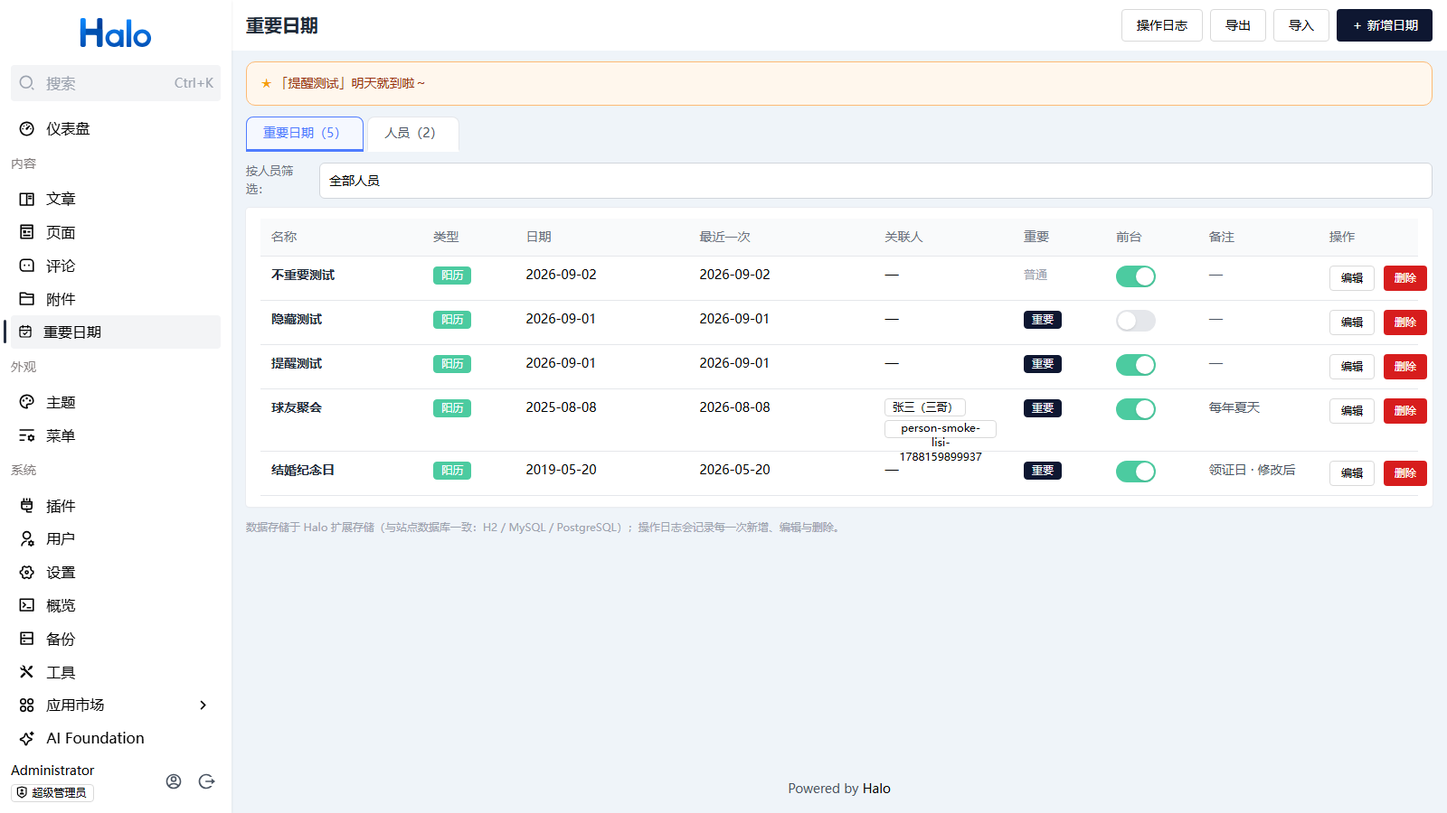
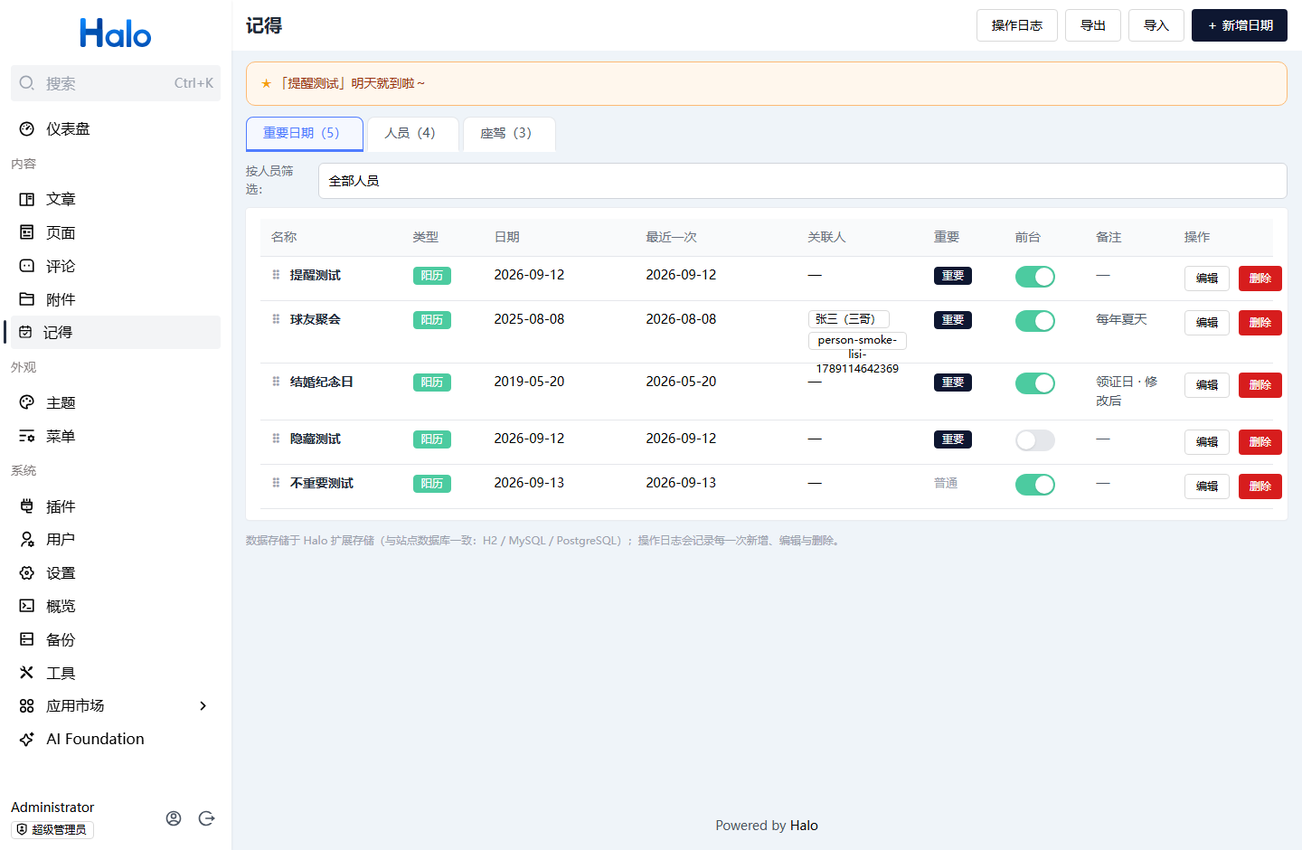
feat(car): 1.2.0-SNAPSHOT 阶段4——应用更名「记得」(菜单/页面/仪表盘小组件/插件描述)、设置文案通用化(照片设置)、附件库浮层改用 Teleport(修复 VModal 插槽 DOM 冲突)、README 与商店物料更新(座驾模块/新截图/主题变量)、上架材料版本 1.2.0

diff --git a/console/src/components/ReminderWidget.vue b/console/src/components/ReminderWidget.vue
@@ -2,7 +2,7 @@
   <WidgetCard :body-class="['!p-0']">
     <template #title>
       <div class="inline-flex items-center gap-2">
-        <div class="text-base font-medium flex-1">📅 重要日期提醒</div>
+        <div class="text-base font-medium flex-1">📅 记得 · 到期提醒</div>
       </div>
     </template>
     <div class="p-4">
@@ -23,12 +23,12 @@
           <span class="whitespace-nowrap text-sm font-bold text-red-600">{{ daysLabel(r.daysUntil) }}</span>
         </div>
         <div class="text-xs text-gray-500">
-          来自「重要日期」插件；提前天数与开关可在 插件 → 重要日期 → 设置 中调整
+          来自「记得」插件；提前天数与开关可在 插件 → 记得 → 设置 中调整
         </div>
       </div>
       <div v-else>
         <div class="text-gray-500">最近没有重要日期提醒</div>
-        <a class="text-sm text-blue-600 hover:text-blue-700" href="/console/important-dates">去管理重要日期 →</a>
+        <a class="text-sm text-blue-600 hover:text-blue-700" href="/console/important-dates">去管理记得 →</a>
       </div>
     </div>
   </WidgetCard>
@@ -83,3 +83,4 @@ onUnmounted(() => {
   if (timer) clearInterval(timer);
 });
 </script>
+

diff --git a/console/src/index.ts b/console/src/index.ts
@@ -13,11 +13,11 @@ export default definePlugin({
         name: "ImportantDates",
         component: ImportantDatesView,
         meta: {
-          title: "重要日期",
+          title: "记得",
           searchable: true,
           permissions: ["plugin:important-dates:view"],
           menu: {
-            name: "重要日期",
+            name: "记得",
             group: "content",
             icon: markRaw(CalendarIcon),
             priority: 0,
@@ -33,9 +33,10 @@ export default definePlugin({
       {
         id: "important-dates-reminder",
         component: markRaw(ReminderWidget),
-        group: "重要日期",
+        group: "记得",
         defaultSize: { w: 6, h: 5, minW: 3, minH: 3, maxW: 12, maxH: 8 },
       },
     ],
   },
 });
+

diff --git a/console/src/components/CarFormModal.vue b/console/src/components/CarFormModal.vue
@@ -1,4 +1,4 @@
-<template>
+<template>
   <VModal
     :visible="visible"
     :title="car ? '编辑座驾' : '新增座驾'"
@@ -244,7 +244,8 @@
       </div>
     </div>
 
-    <!-- 附件库多选浮层 -->
+    <!-- 附件库多选浮层（Teleport 到 body：避免 VModal 插槽内的 DOM 插入冲突） -->
+    <Teleport to="body">
     <div v-if="libVisible" class="lib-overlay" @click.self="closeLib">
       <div class="lib-panel">
         <div class="lib-header">
@@ -284,6 +285,7 @@
         </div>
       </div>
     </div>
+    </Teleport>
 
     <template #footer>
       <VSpace>
@@ -979,3 +981,4 @@ watch(
   border-top: 1px solid #e5e7eb;
 }
 </style>
+

diff --git a/console/src/views/ImportantDatesView.vue b/console/src/views/ImportantDatesView.vue
@@ -1,5 +1,5 @@
 <template>
-  <VPageHeader title="重要日期">
+  <VPageHeader title="记得">
     <template #actions>
       <VButton :loading="logLoading" @click="openLogs">操作日志</VButton>
       <VButton @click="exportData">导出</VButton>
@@ -2111,4 +2111,5 @@ function formatTime(iso?: string): string {
 .car-actions {
   margin-top: 4px;
 }
+
 

diff --git a/src/main/java/com/yyliucha/importantdates/ImportantDateRouter.java b/src/main/java/com/yyliucha/importantdates/ImportantDateRouter.java
@@ -84,7 +84,7 @@ public class ImportantDateRouter {
                                 List<ImportantDateVo> reminders = tuple.getT1();
                                 List<CarVo.CarEventVo> events = tuple.getT2();
                                 Map<String, Object> model = new LinkedHashMap<>();
-                                model.put("title", cfg.carFrontendSection() ? "记得" : "重要日期");
+                                model.put("title", "记得");
                                 model.put("dates", dates);
                                 model.put("people", people);
                                 model.put("reminders", reminders);
@@ -291,4 +291,5 @@ public class ImportantDateRouter {
         int toastMaxPerType) {
     }
 }
+
 

diff --git a/README.store.md b/README.store.md
@@ -1,9 +1,9 @@
-# 重要日期（plugin-important-dates）
+# 记得 · 重要日期与爱车（plugin-important-dates）
 
 [![build](https://github.com/yyliucha/plugin-important-dates/actions/workflows/build.yaml/badge.svg)](https://github.com/yyliucha/plugin-important-dates/actions/workflows/build.yaml)
 [![plugin](https://img.shields.io/badge/Halo-2.x-1f6feb?logo=halo&color=1f6feb)](https://github.com/halo-dev/halo)
 
-一个 Halo 2.x 插件：在**后台**记录并管理自己的重要日期与家人朋友（结婚纪念日、孩子出生日期等），支持阳历/农历（含闰月）、每年自动循环、**拖拽排序**、人员档案与**大头贴**、到期提醒（仪表盘常驻 + 前台页面 + 全站悬浮弹窗）、隐私脱敏、**操作日志（分页/自动清理）**与导出导入；完全按 Halo 2.26 官方文档与扩展点实现。
+一个 Halo 2.x 插件：在**后台**记录重要日期与家人朋友（结婚纪念日、孩子出生日期等），也记录你的**座驾**（汽车 / 电瓶车 / 自行车）的保险、年检、保养到期。支持阳历/农历（含闰月）、每年自动循环、**拖拽排序**、人员档案与**大头贴**、**多图相册与前台「生活 / 爱车」双视图**、到期提醒（仪表盘常驻 + 前台横幅 + 全站悬浮弹窗）、隐私脱敏、**操作日志（分页/自动清理）**与导出导入；完全按 Halo 2.26 官方文档与扩展点实现。
 
 [English README](README.en.md) ｜ [Releases](https://github.com/yyliucha/plugin-important-dates/releases) ｜ [问题反馈](https://github.com/yyliucha/plugin-important-dates/issues) ｜ 作者：[yyliucha](https://github.com/yyliucha)
 
@@ -19,7 +19,11 @@
 | ![新增日期](https://raw.githubusercontent.com/yyliucha/plugin-important-dates/main/docs/screenshots/screenshot-date-form.png) | **自研日期选择器**：阳历日历网格（格内标注农历）/ 农历年月日（含闰月） |
 | ![人员管理](https://raw.githubusercontent.com/yyliucha/plugin-important-dates/main/docs/screenshots/screenshot-people-list.png) | **人员管理**：姓名/昵称/关系/生日/血型/身高/体重/喜好，敏感字段标注「仅后台」 |
 | ![操作日志](https://raw.githubusercontent.com/yyliucha/plugin-important-dates/main/docs/screenshots/screenshot-log-modal.png) | **操作日志弹窗**：每一次新增/编辑/删除的时间、操作、目标与变更详情 |
-| ![插件设置](https://raw.githubusercontent.com/yyliucha/plugin-important-dates/main/docs/screenshots/screenshot-settings.png) | **插件设置**：提醒天数、后台/前台提醒、全站悬浮提醒（位置/标题/模板/关闭行为）、隐私脱敏 |
+| ![座驾列表](https://raw.githubusercontent.com/yyliucha/plugin-important-dates/main/docs/screenshots/screenshot-console-car.png) | **后台「座驾」页签**：分类图标、脱敏/完整车牌、到期徽章（已过期/临近）、车主与驾驶人、拖拽排序、前台开关 |
+| ![座驾表单](https://raw.githubusercontent.com/yyliucha/plugin-important-dates/main/docs/screenshots/screenshot-console-car-form.png) | **座驾表单**：分类（轿车/SUV/MPV/跑车/…/电瓶车/自行车）、能源类型、证照与里程、多图相册（可勾选是否前台展示）、到期项（保险/年检/保养/车船税/自定义） |
+| ![前台爱车视图](https://raw.githubusercontent.com/yyliucha/plugin-important-dates/main/docs/screenshots/screenshot-frontend-car.png) | **前台「爱车」视图**：车辆卡片（分类图标、脱敏车牌、到期徽章）、**性别统一徽章**（男=酷 / 女=可爱，车与人同款）、车主/驾驶人徽章 |
+| ![前台相册](https://raw.githubusercontent.com/yyliucha/plugin-important-dates/main/docs/screenshots/screenshot-frontend-album.png) | **前台相册浮层**：点击封面全屏查看相册（只读、可滚动、Esc 关闭；仅显示后台勾选「展示」的照片） |
+| ![插件设置](https://raw.githubusercontent.com/yyliucha/plugin-important-dates/main/docs/screenshots/screenshot-settings.png) | **插件设置**：提醒天数、座驾设置、后台/前台提醒、全站悬浮提醒（位置/标题/模板/关闭行为）、隐私脱敏 |
 | ![全站悬浮提醒](https://raw.githubusercontent.com/yyliucha/plugin-important-dates/main/docs/screenshots/screenshot-toast.png) | **全站悬浮提醒弹窗**：自选位置（含屏幕中间）、自动关闭倒计时、关闭方式菜单 |
 
 ## 功能
@@ -30,6 +34,13 @@
 - **自研日期选择器**：阳历模式为日历网格（格子内标注农历）；农历模式可选年份、月份（含闰月）、日期并实时显示对应阳历；均支持**年/月下拉快选**；**编辑时日历面板自动定位到已选日期**
 - **重要/普通标识**：默认重要，重要日期参与到期提醒，可作为全站提示的条件
 
+**🚗 座驾（汽车 / 电瓶车 / 自行车）**
+- **车辆档案**：名称/昵称、品牌、车系型号、**17 类分类**（轿车/SUV/MPV/跑车/越野车/皮卡/旅行车/两厢车/跨界车/微面/房车/货车/客车/摩托车/**电瓶车/自行车**/其他）、能源类型（燃油/纯电/插混/油电混动/人力）、颜色、车牌号、VIN、发动机号、注册/购买日期、里程、状态（在用车/已出售/已报废）
+- **多图相册**：上传或从官方附件库多选、拖拽排序、设封面；**每张可单独勾选「展示」**（未勾选仅后台可见，适合行驶证/保单等证件照）；前台点击封面即可全屏查看（只读）
+- **到期提醒**：交强险、商业险、年检、保养（支持日期与间隔月数推算）、车船税、驾照换证、自定义项；每项可单独设置提前天数与启用开关；**按年循环项到期后自动滚动到下一次**；已出售/已报废车辆不再提醒
+- **关联人员**：车主（单选）与常用驾驶人（多选），可选；关联后车辆卡片与人员卡片使用**统一徽章风格**（男生「酷」/ 女生「可爱」/ 未关联中性）
+- **隐私**：**车牌号前台永远脱敏**（`粤B·****5`）；VIN、发动机号、保单号、购买价格**永不输出到前台**；车辆「前台展示」默认关闭
+- **排序**：车辆列表支持拖拽排序，前后台顺序一致；导出/导入（JSON v3）包含车辆与相册
 **👤 人员管理**
 - 人员字段：姓名、昵称、关系（本人/配偶/子女/父母/朋友…）、生日（阳历/农历）、性别、血型、身高、体重（最新值）、喜好、备注、**大头贴**（单张；官方附件库上传/选择，后台始终显示，前台由隐私设置控制，附件被删除自动回退首字符）
 - 重要日期可**关联多人**（如结婚纪念日关联夫妻两人），列表支持**按人员筛选**
@@ -83,6 +94,7 @@
 
 - **新增日期**：右上角「+ 新增日期」→ 名称、日期类型、日期（日历面板：阳历点选 / 农历选年月日）、关联人员（可多选）、备注；可勾选「重要」参与提醒、「前台展示」控制是否公开
 - **人员页签**：管理人员信息；人员卡片上可直接切换「前台展示」
+- **座驾页签**：管理车辆档案与相册（上传/附件库多选、拖拽排序、设封面、逐张勾选「是否前台展示」），设置交强险/商业险/年检/保养/车船税等到期项与提前天数；卡片上可直接切换「前台展示」与状态
 - **列表**：显示类型、日期、最近一次、关联人、重要标记、前台开关；顶部可按人员筛选
 - **操作日志**：右上角按钮查看全部变更明细
 - **导出 / 导入**：右上角按钮备份与恢复（导入会先校验，重复自动跳过）
@@ -107,7 +119,11 @@
 
 插件**不会写入或修改任何主题文件**。想自定义展示时，在主题目录放置 `templates/important-dates.html`（TemplateNameResolver 会优先使用主题模板；删除即回退插件默认模板）。
 
-模板可直接消费的数据：`title`、`dates`（title/dateText/nextSolarDate/daysUntil/personNames/important）、`people`（displayName/nickname/relation/birthdayText/nextSolarDate/daysUntil/avatar）、`reminders`（即将到来的重要日期）、`showImportantTag`、`showAvatar`。也可以直接调用 `importantDateFinder` Finder API 获取数据。
+模板可直接消费的数据：
+- 生活视图：`title`、`dates`（title/dateText/nextSolarDate/daysUntil/personNames/important）、`people`（displayName/nickname/relation/birthdayText/nextSolarDate/daysUntil/avatar/gender）、`reminders`（即将到来的重要日期）、`showImportantTag`、`showAvatar`
+- 爱车视图：`cars`（displayName/brand/model/vehicleTypeLabel/vehicleTypeIcon/energyTypeLabel/**plateMasked**（脱敏车牌）/coverUrl/photos/photoCount/ownerName/driverNames/**skin**（cool|cute|neutral）/events）、`carEvents`（carName/label/date/daysUntil/overdue）、`carOwners`、`carDrivers`、`showCarSection`、`carSkinEnabled`、`view`（life|car）
+
+也可以直接调用 `importantDateFinder` Finder API：`listAll()` / `listAllPeople()` / `listAllCars()` / `listUpcoming(days)` / `listUpcomingCarEvents(days)`。
 
 ## 重新构建（可选）
 
@@ -118,13 +134,17 @@ cd plugin-important-dates
 ./gradlew build
 ```
 
-构建结果位于 `build/libs/plugin-important-dates-1.1.5.jar`。
+构建结果位于 `build/libs/plugin-important-dates-1.2.0-SNAPSHOT.jar`。
 
 > 版本说明：**开发版使用 1.0.x 序列**（1.0.0 → 1.0.1 → … 当前 1.0.33）；**正式版版本号在发布时指定**（当前正式线 1.1.x，后续正式版号以发布为准）。
 
 ## License
 
 [MIT](LICENSE)
+
+
+
+
 
 
 

diff --git a/README.md b/README.md
@@ -1,9 +1,9 @@
-# 重要日期（plugin-important-dates）
+# 记得 · 重要日期与爱车（plugin-important-dates）
 
 [![build](https://github.com/yyliucha/plugin-important-dates/actions/workflows/build.yaml/badge.svg)](https://github.com/yyliucha/plugin-important-dates/actions/workflows/build.yaml)
 [![plugin](https://img.shields.io/badge/Halo-2.x-1f6feb?logo=halo&color=1f6feb)](https://github.com/halo-dev/halo)
 
-一个 Halo 2.x 插件：在**后台**记录并管理自己的重要日期与家人朋友（结婚纪念日、孩子出生日期等），支持阳历/农历（含闰月）、每年自动循环、**拖拽排序**、人员档案与**大头贴**、到期提醒（仪表盘常驻 + 前台页面 + 全站悬浮弹窗）、隐私脱敏、**操作日志（分页/自动清理）**与导出导入；完全按 Halo 2.26 官方文档与扩展点实现。
+一个 Halo 2.x 插件：在**后台**记录重要日期与家人朋友（结婚纪念日、孩子出生日期等），也记录你的**座驾**（汽车 / 电瓶车 / 自行车）的保险、年检、保养到期。支持阳历/农历（含闰月）、每年自动循环、**拖拽排序**、人员档案与**大头贴**、**多图相册与前台「生活 / 爱车」双视图**、到期提醒（仪表盘常驻 + 前台横幅 + 全站悬浮弹窗）、隐私脱敏、**操作日志（分页/自动清理）**与导出导入；完全按 Halo 2.26 官方文档与扩展点实现。
 
 [English README](README.en.md) ｜ [Releases](https://github.com/yyliucha/plugin-important-dates/releases) ｜ [问题反馈](https://github.com/yyliucha/plugin-important-dates/issues) ｜ 作者：[yyliucha](https://github.com/yyliucha)
 
@@ -19,7 +19,11 @@
 | ![新增日期](docs/screenshots/screenshot-date-form.png) | **自研日期选择器**：阳历日历网格（格内标注农历）/ 农历年月日（含闰月） |
 | ![人员管理](docs/screenshots/screenshot-people-list.png) | **人员管理**：姓名/昵称/关系/生日/血型/身高/体重/喜好，敏感字段标注「仅后台」 |
 | ![操作日志](docs/screenshots/screenshot-log-modal.png) | **操作日志弹窗**：每一次新增/编辑/删除的时间、操作、目标与变更详情 |
-| ![插件设置](docs/screenshots/screenshot-settings.png) | **插件设置**：提醒天数、后台/前台提醒、全站悬浮提醒（位置/标题/模板/关闭行为）、隐私脱敏 |
+| ![座驾列表](docs/screenshots/screenshot-console-car.png) | **后台「座驾」页签**：分类图标、脱敏/完整车牌、到期徽章（已过期/临近）、车主与驾驶人、拖拽排序、前台开关 |
+| ![座驾表单](docs/screenshots/screenshot-console-car-form.png) | **座驾表单**：分类（轿车/SUV/MPV/跑车/…/电瓶车/自行车）、能源类型、证照与里程、多图相册（可勾选是否前台展示）、到期项（保险/年检/保养/车船税/自定义） |
+| ![前台爱车视图](docs/screenshots/screenshot-frontend-car.png) | **前台「爱车」视图**：车辆卡片（分类图标、脱敏车牌、到期徽章）、**性别统一徽章**（男=酷 / 女=可爱，车与人同款）、车主/驾驶人徽章 |
+| ![前台相册](docs/screenshots/screenshot-frontend-album.png) | **前台相册浮层**：点击封面全屏查看相册（只读、可滚动、Esc 关闭；仅显示后台勾选「展示」的照片） |
+| ![插件设置](docs/screenshots/screenshot-settings.png) | **插件设置**：提醒天数、座驾设置、后台/前台提醒、全站悬浮提醒（位置/标题/模板/关闭行为）、隐私脱敏 |
 | ![全站悬浮提醒](docs/screenshots/screenshot-toast.png) | **全站悬浮提醒弹窗**：自选位置（含屏幕中间）、自动关闭倒计时、关闭方式菜单 |
 
 ## 功能
@@ -30,6 +34,13 @@
 - **自研日期选择器**：阳历模式为日历网格（格子内标注农历）；农历模式可选年份、月份（含闰月）、日期并实时显示对应阳历；均支持**年/月下拉快选**；**编辑时日历面板自动定位到已选日期**
 - **重要/普通标识**：默认重要，重要日期参与到期提醒，可作为全站提示的条件
 
+**🚗 座驾（汽车 / 电瓶车 / 自行车）**
+- **车辆档案**：名称/昵称、品牌、车系型号、**17 类分类**（轿车/SUV/MPV/跑车/越野车/皮卡/旅行车/两厢车/跨界车/微面/房车/货车/客车/摩托车/**电瓶车/自行车**/其他）、能源类型（燃油/纯电/插混/油电混动/人力）、颜色、车牌号、VIN、发动机号、注册/购买日期、里程、状态（在用车/已出售/已报废）
+- **多图相册**：上传或从官方附件库多选、拖拽排序、设封面；**每张可单独勾选「展示」**（未勾选仅后台可见，适合行驶证/保单等证件照）；前台点击封面即可全屏查看（只读）
+- **到期提醒**：交强险、商业险、年检、保养（支持日期与间隔月数推算）、车船税、驾照换证、自定义项；每项可单独设置提前天数与启用开关；**按年循环项到期后自动滚动到下一次**；已出售/已报废车辆不再提醒
+- **关联人员**：车主（单选）与常用驾驶人（多选），可选；关联后车辆卡片与人员卡片使用**统一徽章风格**（男生「酷」/ 女生「可爱」/ 未关联中性）
+- **隐私**：**车牌号前台永远脱敏**（`粤B·****5`）；VIN、发动机号、保单号、购买价格**永不输出到前台**；车辆「前台展示」默认关闭
+- **排序**：车辆列表支持拖拽排序，前后台顺序一致；导出/导入（JSON v3）包含车辆与相册
 **👤 人员管理**
 - 人员字段：姓名、昵称、关系（本人/配偶/子女/父母/朋友…）、生日（阳历/农历）、性别、血型、身高、体重（最新值）、喜好、备注、**大头贴**（单张；官方附件库上传/选择，后台始终显示，前台由隐私设置控制，附件被删除自动回退首字符）
 - 重要日期可**关联多人**（如结婚纪念日关联夫妻两人），列表支持**按人员筛选**
@@ -83,6 +94,7 @@
 
 - **新增日期**：右上角「+ 新增日期」→ 名称、日期类型、日期（日历面板：阳历点选 / 农历选年月日）、关联人员（可多选）、备注；可勾选「重要」参与提醒、「前台展示」控制是否公开
 - **人员页签**：管理人员信息；人员卡片上可直接切换「前台展示」
+- **座驾页签**：管理车辆档案与相册（上传/附件库多选、拖拽排序、设封面、逐张勾选「是否前台展示」），设置交强险/商业险/年检/保养/车船税等到期项与提前天数；卡片上可直接切换「前台展示」与状态
 - **列表**：显示类型、日期、最近一次、关联人、重要标记、前台开关；顶部可按人员筛选
 - **操作日志**：右上角按钮查看全部变更明细
 - **导出 / 导入**：右上角按钮备份与恢复（导入会先校验，重复自动跳过）
@@ -107,7 +119,11 @@
 
 插件**不会写入或修改任何主题文件**。想自定义展示时，在主题目录放置 `templates/important-dates.html`（TemplateNameResolver 会优先使用主题模板；删除即回退插件默认模板）。
 
-模板可直接消费的数据：`title`、`dates`（title/dateText/nextSolarDate/daysUntil/personNames/important）、`people`（displayName/nickname/relation/birthdayText/nextSolarDate/daysUntil/avatar）、`reminders`（即将到来的重要日期）、`showImportantTag`、`showAvatar`。也可以直接调用 `importantDateFinder` Finder API 获取数据。
+模板可直接消费的数据：
+- 生活视图：`title`、`dates`（title/dateText/nextSolarDate/daysUntil/personNames/important）、`people`（displayName/nickname/relation/birthdayText/nextSolarDate/daysUntil/avatar/gender）、`reminders`（即将到来的重要日期）、`showImportantTag`、`showAvatar`
+- 爱车视图：`cars`（displayName/brand/model/vehicleTypeLabel/vehicleTypeIcon/energyTypeLabel/**plateMasked**（脱敏车牌）/coverUrl/photos/photoCount/ownerName/driverNames/**skin**（cool|cute|neutral）/events）、`carEvents`（carName/label/date/daysUntil/overdue）、`carOwners`、`carDrivers`、`showCarSection`、`carSkinEnabled`、`view`（life|car）
+
+也可以直接调用 `importantDateFinder` Finder API：`listAll()` / `listAllPeople()` / `listAllCars()` / `listUpcoming(days)` / `listUpcomingCarEvents(days)`。
 
 ## 重新构建（可选）
 
@@ -125,6 +141,9 @@ cd plugin-important-dates
 ## License
 
 [MIT](LICENSE)
+
+
+
 
 
 

diff --git a/docs/screenshots/README.md b/docs/screenshots/README.md
@@ -1,4 +1,4 @@
-# 截图清单（应用市场上架 / 仓库展示）
+# 截图清单（应用市场上架 / 仓库展示）
 
 提交 Halo 应用市场前，把下面 8 张实际截图放到本目录（`F:\dsh\plugin-important-dates\docs\screenshots\`），**文件名与 README 中的引用保持一致**（按下表命名即可，README 会自动显示）。
 
@@ -48,11 +48,11 @@
 4. 明确：插件不含联网请求、不采集用户数据、无需外部授权/付费能力（README 已写明）；
 5. 命名空间合规：自有代码全部为 `com.yyliucha.importantdates`（审核材料见 `docs/app-store-resubmission.md`）。
 
+## 座驾模块（1.2.0 新增）
 
-
-
-
-
-
-
-
+| 文件 | 说明 |
+| --- | --- |
+| screenshot-console-car.png | 后台「座驾」页签：车辆卡片（分类图标、车牌、到期徽章、车主/驾驶人、前台开关、拖拽排序） |
+| screenshot-console-car-form.png | 座驾表单：分类/能源/证照/里程/关联人员/多图相册（含「展示」勾选）/到期项 |
+| screenshot-frontend-car.png | 前台「爱车」视图：车辆卡片 + 性别统一徽章（男=酷 / 女=可爱）+ 车主/驾驶人徽章 |
+| screenshot-frontend-album.png | 前台相册浮层：点击封面全屏查看（只读；仅显示勾选「展示」的照片） |

diff --git a/docs/app-store-resubmission.md b/docs/app-store-resubmission.md
@@ -1,4 +1,4 @@
-# 应用商店上架审核材料（v1.1.4）
+# 应用商店上架审核材料（v1.2.0）
 
 供 Halo 应用市场审核参考。本版按 2026-09 审核意见完成整改（整改说明见文末），并提供人工测试清单与自动化回归记录。
 
@@ -18,7 +18,7 @@
 - 仅使用官方依赖坐标：`run.halo.tools.platform:plugin`、`run.halo.app:api`（compileOnly）、`cn.6tail:lunar`
 - 插件无任何联网请求、不采集/不上传用户数据；License MIT
 
-## 三、审核意见整改说明（截至 1.1.4）
+## 三、审核意见整改说明（截至 1.2.0）
 
 | 审核意见 | 整改 |
 |---|---|

diff --git a/docs/feature-car-module.md b/docs/feature-car-module.md
@@ -1,6 +1,6 @@
-# 需求定稿：汽车信息模块（爱车 · 记得）
+# 需求定稿：汽车信息模块（爱车 · 记得）
 
-> 状态：**需求已定稿，等待开工** · 提出：yyliucha · 完善：AI
+> 状态：**已实现（1.2.0-SNAPSHOT 四阶段完成，回归 44/44；待发布 1.2.0）** · 提出：yyliucha · 完善：AI
 > 目标版本：**1.2.0**（正式版 · 大版本更新）· 插件 ID 不变：`plugin-important-dates`
 > 显示名变更：**「记得」**（副标题：记得 · 重要日期与爱车）
 
